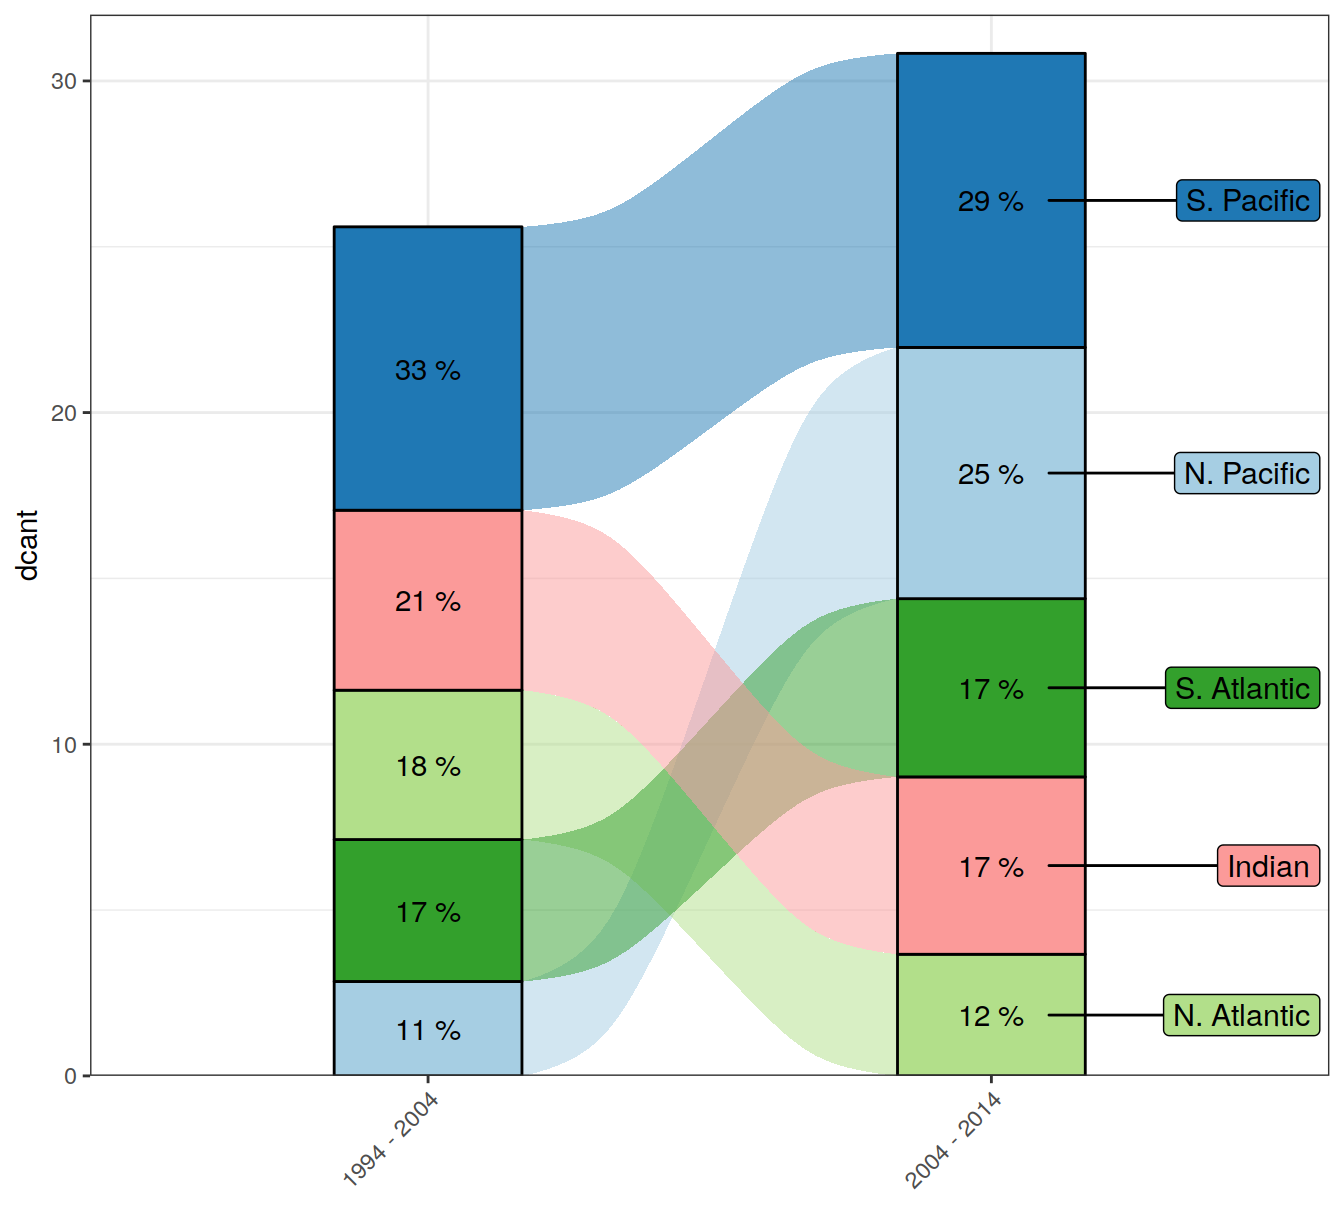
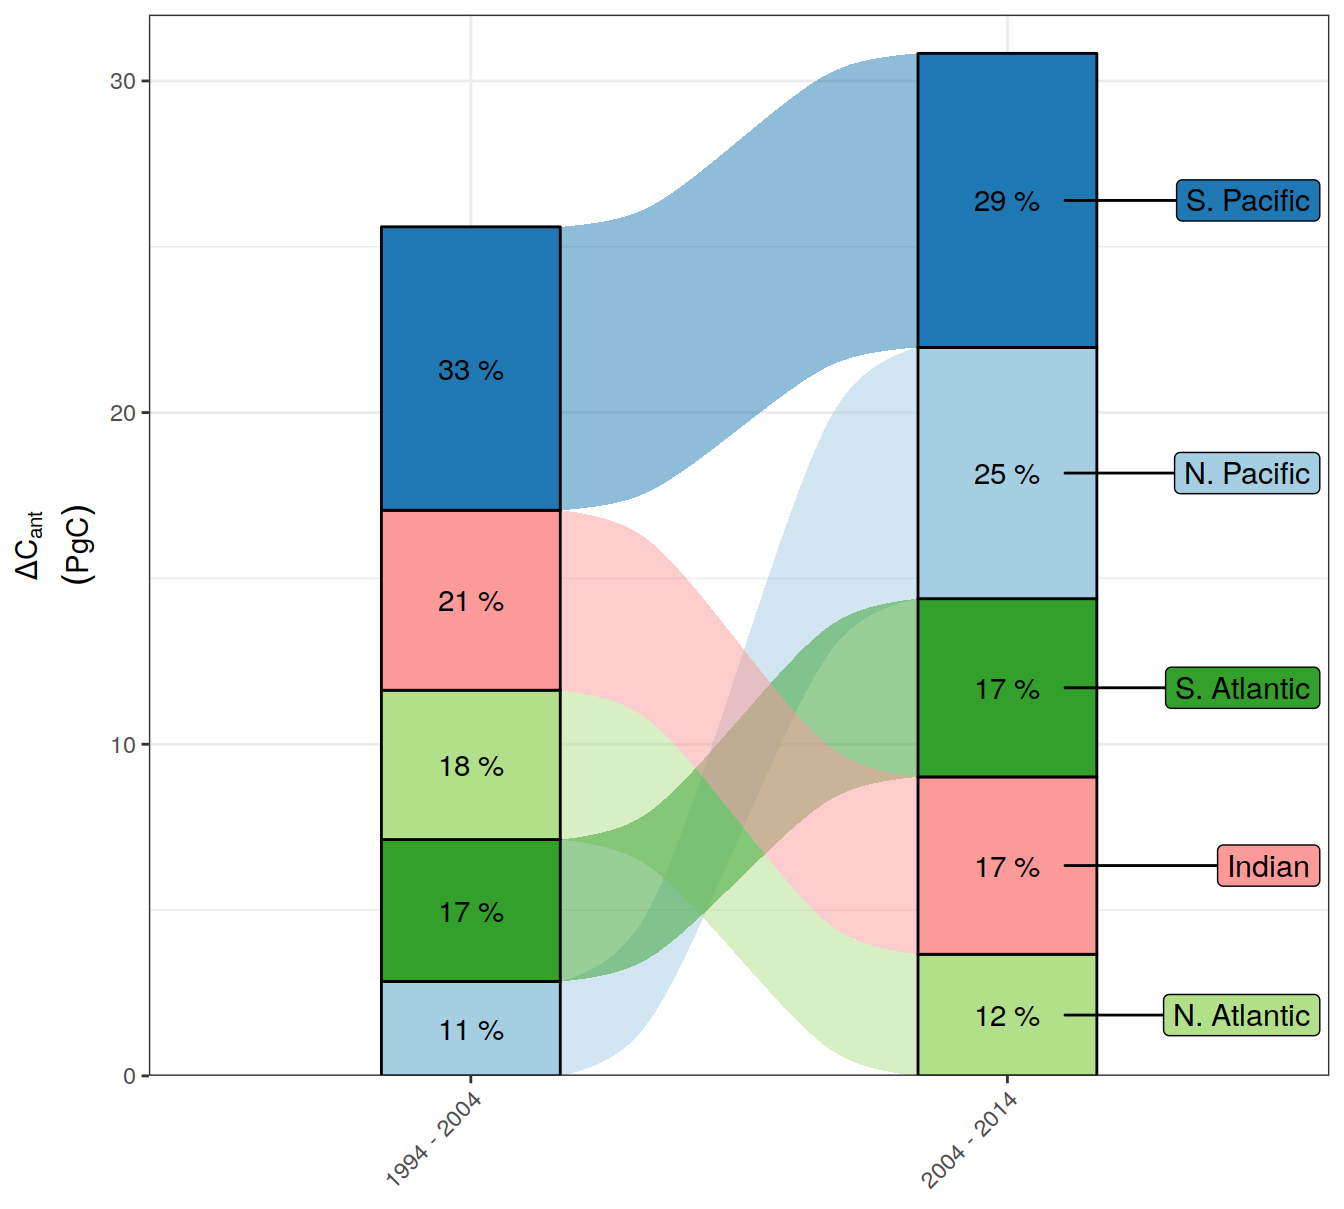
Build site.

diff --git a/docs/results_publication.html b/docs/results_publication.html
@@ -645,16 +645,16 @@ This reproducible <a href="http://rmarkdown.rstudio.com">R Markdown</a> analysis
 <div class="panel panel-default">
 <div class="panel-heading">
 <p class="panel-title">
-<a data-toggle="collapse" data-parent="#workflowr-checks" href="#strongRepositoryversionstrongahrefhttpsgithubcomjensdanielmuelleremlrobsanalysistree81a40d54d70cdd43b1f53cc7b43de1cfff87ea7btargetblank81a40d5a"> <span class="glyphicon glyphicon-ok text-success" aria-hidden="true"></span> <strong>Repository version:</strong> <a href="https://github.com/jens-daniel-mueller/emlr_obs_analysis/tree/81a40d54d70cdd43b1f53cc7b43de1cfff87ea7b" target="_blank">81a40d5</a> </a>
+<a data-toggle="collapse" data-parent="#workflowr-checks" href="#strongRepositoryversionstrongahrefhttpsgithubcomjensdanielmuelleremlrobsanalysistree416e1076a9015d54099eb310be7505ea1be136e5targetblank416e107a"> <span class="glyphicon glyphicon-ok text-success" aria-hidden="true"></span> <strong>Repository version:</strong> <a href="https://github.com/jens-daniel-mueller/emlr_obs_analysis/tree/416e1076a9015d54099eb310be7505ea1be136e5" target="_blank">416e107</a> </a>
 </p>
 </div>
[2 lines of base64/hex data omitted]
 <div class="panel-body">
 <p>
 Great! You are using Git for version control. Tracking code development and connecting the code version to the results is critical for reproducibility.
 </p>
 <p>
-The results in this page were generated with repository version <a href="https://github.com/jens-daniel-mueller/emlr_obs_analysis/tree/81a40d54d70cdd43b1f53cc7b43de1cfff87ea7b" target="_blank">81a40d5</a>. See the <em>Past versions</em> tab to see a history of the changes made to the R Markdown and HTML files.
+The results in this page were generated with repository version <a href="https://github.com/jens-daniel-mueller/emlr_obs_analysis/tree/416e1076a9015d54099eb310be7505ea1be136e5" target="_blank">416e107</a>. See the <em>Past versions</em> tab to see a history of the changes made to the R Markdown and HTML files.
 </p>
 <p>
 Note that you need to be careful to ensure that all relevant files for the analysis have been committed to Git prior to generating the results (you can use <code>wflow_publish</code> or <code>wflow_git_commit</code>). workflowr only checks the R Markdown file, but you know if there are other scripts or data files that it depends on. Below is the status of the Git repository when the results were generated:
@@ -704,6 +704,40 @@ Message
 </tr>
 </thead>
 <tbody>
+<tr>
+<td>
+Rmd
+</td>
+<td>
+<a href="https://github.com/jens-daniel-mueller/emlr_obs_analysis/blob/416e1076a9015d54099eb310be7505ea1be136e5/analysis/results_publication.Rmd" target="_blank">416e107</a>
+</td>
+<td>
+jens-daniel-mueller
+</td>
+<td>
+2022-01-20
+</td>
+<td>
+added delta dcant map
+</td>
+</tr>
+<tr>
+<td>
+html
+</td>
+<td>
+<a href="https://rawcdn.githack.com/jens-daniel-mueller/emlr_obs_analysis/11a800bfd09db67915c75e670a47ec7716e62580/docs/results_publication.html" target="_blank">11a800b</a>
+</td>
+<td>
+jens-daniel-mueller
+</td>
+<td>
+2022-01-20
+</td>
+<td>
+Build site.
+</td>
+</tr>
 <tr>
 <td>
 Rmd
@@ -1123,17 +1157,15 @@ for (i_Version_IDs in Version_IDs) {
 
 dcant_budget_basin_MLR_all &lt;- dcant_budget_basin_MLR_all %&gt;%
   filter(inv_depth == params_global$inventory_depth_standard)</code></pre>
-</div>
-<div id="uncertainty-limit" class="section level1" number="2">
-<h1><span class="header-section-number">2</span> Uncertainty limit</h1>
-<pre class="r"><code>sd_uncertainty_limit &lt;- 4</code></pre>
 <pre class="r"><code>dcant_budget &lt;- expression(atop(Delta * C[&quot;ant&quot;],
                                 (PgC)))</code></pre>
 </div>
-<div id="individual-cases" class="section level1" number="3">
-<h1><span class="header-section-number">3</span> Individual cases</h1>
-<div id="absoulte-values" class="section level2" number="3.1">
-<h2><span class="header-section-number">3.1</span> Absoulte values</h2>
+<div id="individual-cases" class="section level1" number="2">
+<h1><span class="header-section-number">2</span> Individual cases</h1>
+<div id="absoulte-values" class="section level2" number="2.1">
+<h2><span class="header-section-number">2.1</span> Absoulte values</h2>
+<div id="dcant" class="section level3" number="2.1.1">
+<h3><span class="header-section-number">2.1.1</span> dcant</h3>
 <pre class="r"><code>dcant_inv_all %&gt;%
   filter(data_source %in% c(&quot;mod&quot;, &quot;obs&quot;),
          period != &quot;1994 - 2014&quot;) %&gt;%
@@ -1228,14 +1260,63 @@ jens-daniel-mueller
 </table>
 </div>
 </div>
+<pre class="r"><code>dcant_inv_all %&gt;%
+  filter(data_source %in% c(&quot;mod&quot;, &quot;obs&quot;),
+         period != &quot;1994 - 2014&quot;) %&gt;%
+  select(data_source, lon, lat, basin_AIP, period, dcant) %&gt;% 
+  pivot_wider(names_from = period,
+              values_from = dcant) %&gt;% 
+  mutate(delta_dcant = `2004 - 2014` - `1994 - 2004`) %&gt;% 
+  group_by(data_source) %&gt;%
+  group_split() %&gt;%
+  # head(1) %&gt;%
+  map(
+    ~ p_map_cant_inv(df = .x,
+                     var = &quot;delta_dcant&quot;,
+                     subtitle_text = paste(&quot;data_source:&quot;,
+                                           unique(.x$data_source)),
+                     col = &quot;divergent&quot;) +
+      # facet_grid(period ~ .) +
+      theme(axis.text = element_blank(),
+            axis.ticks = element_blank())
+  )</code></pre>
+<pre><code>[[1]]</code></pre>
+<p><img src="figure/results_publication.Rmd/cases_absolute_delta-1.png" width="672" style="display: block; margin: auto;" /></p>
+<pre><code>
+[[2]]</code></pre>
+<p><img src="figure/results_publication.Rmd/cases_absolute_delta-2.png" width="672" style="display: block; margin: auto;" /></p>
+</div>
+<div id="dcant-pos" class="section level3" number="2.1.2">
+<h3><span class="header-section-number">2.1.2</span> dcant pos</h3>
+<pre class="r"><code>dcant_inv_all %&gt;%
+  filter(data_source %in% c(&quot;mod&quot;, &quot;obs&quot;),
+         period != &quot;1994 - 2014&quot;) %&gt;%
+  group_by(data_source) %&gt;%
+  group_split() %&gt;%
+  # head(1) %&gt;%
+  map(
+    ~ p_map_cant_inv(df = .x,
+                     var = &quot;dcant_pos&quot;,
+                     subtitle_text = paste(&quot;data_source:&quot;,
+                                           unique(.x$data_source))) +
+      facet_grid(period ~ .) +
+      theme(axis.text = element_blank(),
+            axis.ticks = element_blank())
+  )</code></pre>
+<pre><code>[[1]]</code></pre>
+<p><img src="figure/results_publication.Rmd/cases_absolute_dcant_pos-1.png" width="672" style="display: block; margin: auto;" /></p>
+<pre><code>
+[[2]]</code></pre>
+<p><img src="figure/results_publication.Rmd/cases_absolute_dcant_pos-2.png" width="672" style="display: block; margin: auto;" /></p>
 </div>
 </div>
-<div id="basins-hemisphere" class="section level1" number="4">
-<h1><span class="header-section-number">4</span> Basins hemisphere</h1>
-<div id="individual-cases-1" class="section level2" number="4.1">
-<h2><span class="header-section-number">4.1</span> Individual cases</h2>
-<div id="absoulte-values-1" class="section level3" number="4.1.1">
-<h3><span class="header-section-number">4.1.1</span> Absoulte values</h3>
+</div>
+<div id="basins-hemisphere" class="section level1" number="3">
+<h1><span class="header-section-number">3</span> Basins hemisphere</h1>
+<div id="individual-cases-1" class="section level2" number="3.1">
+<h2><span class="header-section-number">3.1</span> Individual cases</h2>
+<div id="absoulte-values-1" class="section level3" number="3.1.1">
+<h3><span class="header-section-number">3.1.1</span> Absoulte values</h3>
 <pre class="r"><code>dcant_budget_basin_MLR_all_plot &lt;- dcant_budget_basin_MLR_all %&gt;%
   filter(period != &quot;1994 - 2014&quot;,
          data_source == &quot;obs&quot;) %&gt;%
@@ -1274,6 +1355,7 @@ jens-daniel-mueller
   )+
   scale_fill_brewer(palette = &quot;Paired&quot;, guide = &quot;none&quot;) +
   scale_y_continuous(limits = c(0, 32), expand = c(0, 0)) +
+  labs(y = dcant_budget) +
   theme(axis.text.x = element_text(angle = 45, hjust = 1),
         axis.title.x = element_blank())</code></pre>
 <p><img src="figure/results_publication.Rmd/cases_absolute_basins_hemisphere_alluvial-1.png" width="672" style="display: block; margin: auto;" /></p>
@@ -1299,6 +1381,17 @@ Date
 </tr>
 </thead>
 <tbody>
+<tr>
+<td>
+<a href="https://github.com/jens-daniel-mueller/emlr_obs_analysis/blob/11a800bfd09db67915c75e670a47ec7716e62580/docs/figure/results_publication.Rmd/cases_absolute_basins_hemisphere_alluvial-1.png" target="_blank">11a800b</a>
+</td>
+<td>
+jens-daniel-mueller
+</td>
+<td>
+2022-01-20
+</td>
+</tr>
 <tr>
 <td>
 <a href="https://github.com/jens-daniel-mueller/emlr_obs_analysis/blob/3087804a4085af8d5bb949dc5fc7702fc48b627d/docs/figure/results_publication.Rmd/cases_absolute_basins_hemisphere_alluvial-1.png" target="_blank">3087804</a>
@@ -1374,6 +1467,17 @@ Date
 </tr>
 </thead>
 <tbody>
+<tr>
+<td>
+<a href="https://github.com/jens-daniel-mueller/emlr_obs_analysis/blob/11a800bfd09db67915c75e670a47ec7716e62580/docs/figure/results_publication.Rmd/cases_absolute_basins_hemisphere_alluvial-2.png" target="_blank">11a800b</a>
+</td>
+<td>
+jens-daniel-mueller
+</td>
+<td>
+2022-01-20
+</td>
+</tr>
 <tr>
 <td>
 <a href="https://github.com/jens-daniel-mueller/emlr_obs_analysis/blob/3087804a4085af8d5bb949dc5fc7702fc48b627d/docs/figure/results_publication.Rmd/cases_absolute_basins_hemisphere_alluvial-2.png" target="_blank">3087804</a>
